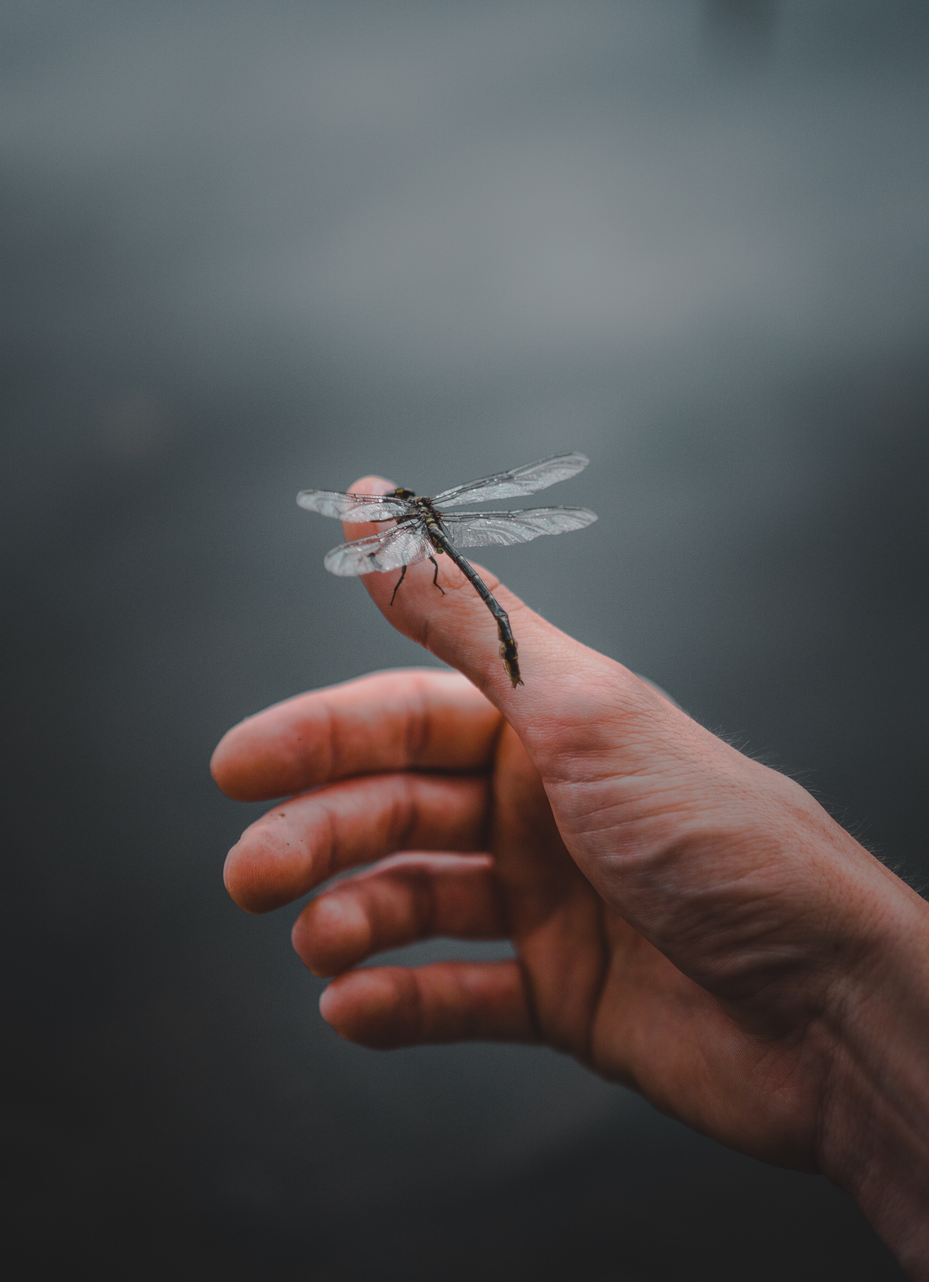
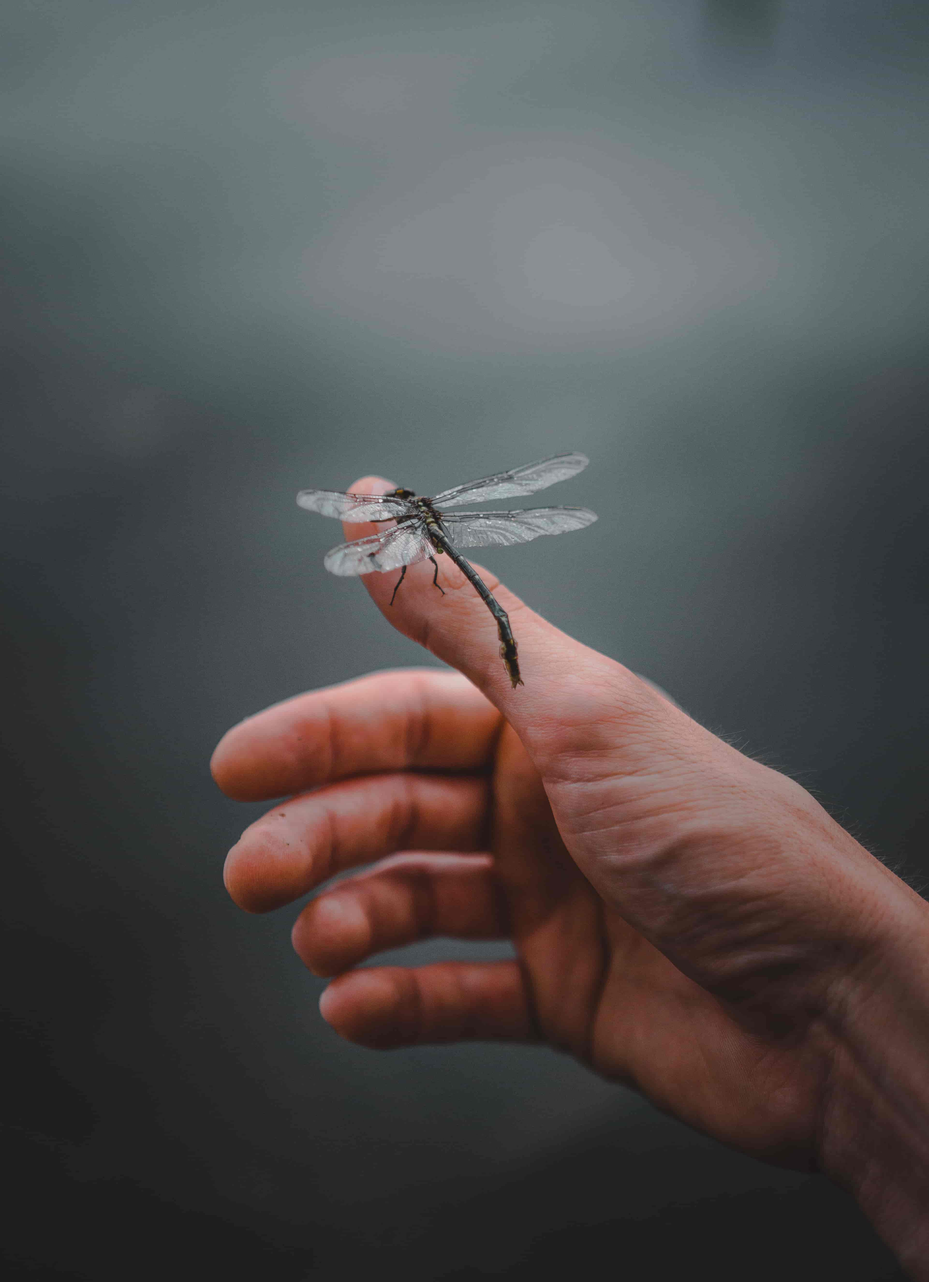
Optimize image size

diff --git a/index.html b/index.html
@@ -13,7 +13,7 @@
 
     <!-- style -->
     <!--<link rel="stylesheet" href="css/style.css">-->
-    <link rel="stylesheet" href="css/style.min.css">
+    <link rel="stylesheet" href="./css/style.min.css">
 
     <!-- favicon -->
     <link rel="icon" href="images/favicon.png" sizes="32x32">
